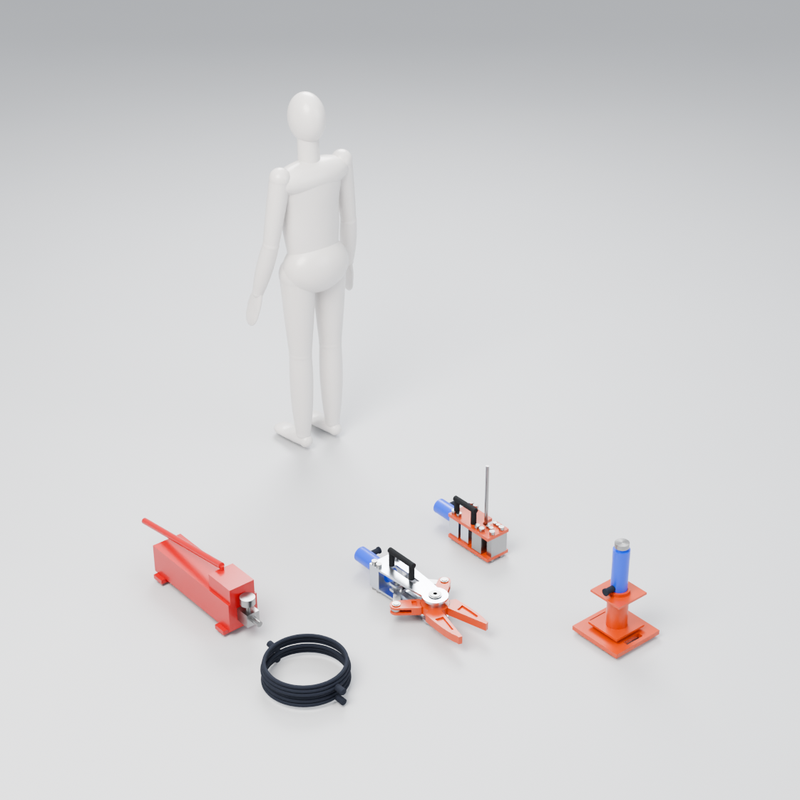
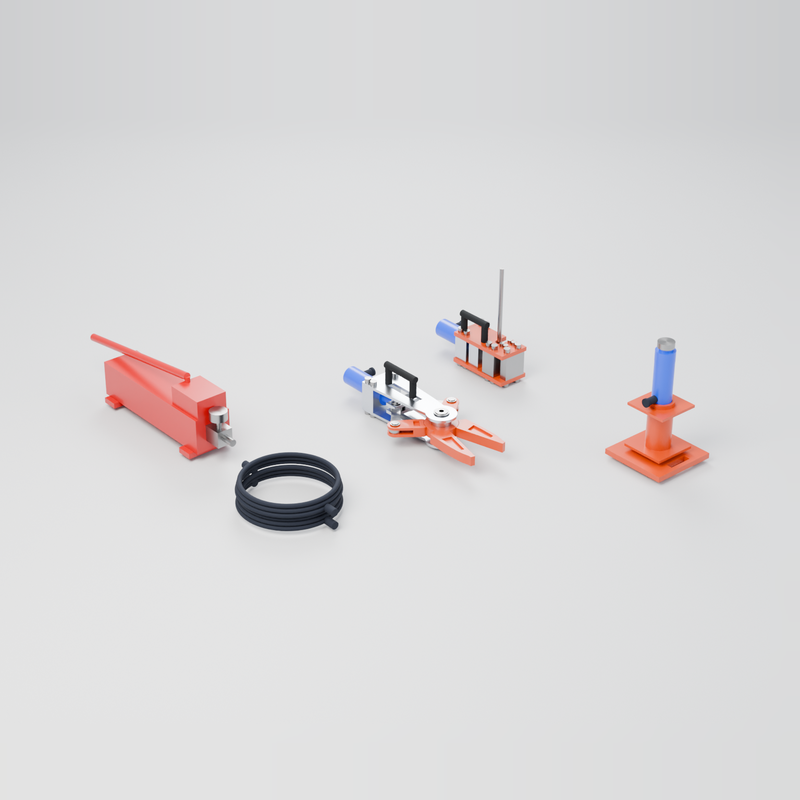
Carry Amish's 2026-10-03 requirement decisions into the design
Amish chose option A on each requirement decision ("1A 2A 3A 4A 5A 6A 7A 8A 9A 10A 11A"). CampBreak: primed foot valve, pre-coupled suction hose and a drilled 30 s gather (R9 now 3.2 min at 100 m, met at 70 m). SiltHaul: second box on the return run (R1 restated and met, 0.57) and a flat-pack frame (R9). VoidScope: cable-steered camera tip (R11 restated and met). CanalRung: 9 mm ropes and the larger footing as standard (R2 restated to 4.5 kg, R6 met). DrumPanel: lever notching punch, second shear head and a fine-pitch bending roll adjuster (R7 2.26 against 2.5; R5 met). BreakHook: fork prop (droop 0.27 m). LevelHull: modules 10 percent bigger (R12 25 mm, R13 44 mm). Models, BOMs, calculations, drawings, build plans and photoreal renders updated; new questions are in each register. SaltDrag and RubbleJack heroes reframed; VatReel and SiltHaul READMEs state "not for fabrication".

diff --git a/docs/REVIEW.md b/docs/REVIEW.md
@@ -115,3 +115,5 @@ TRL 4 when the portfolio phase allows: buy one cylinder and confirm the collar a
 ## 2026-10-03: photoreal renders
 
 Rendered with Blender Cycles on Amish's Mac from `cad/src/product_model.py`; captioned with `.kit/photo_caption.py`; `media/card.png` and `media/social-preview.png` made with `.kit/cards.py`. Views: hero, exploded, detail. image_qc passes and `render.py --check` has no FAIL.
+
+2026-10-03: hero render reframed so the product fills the frame (rubblejack).
